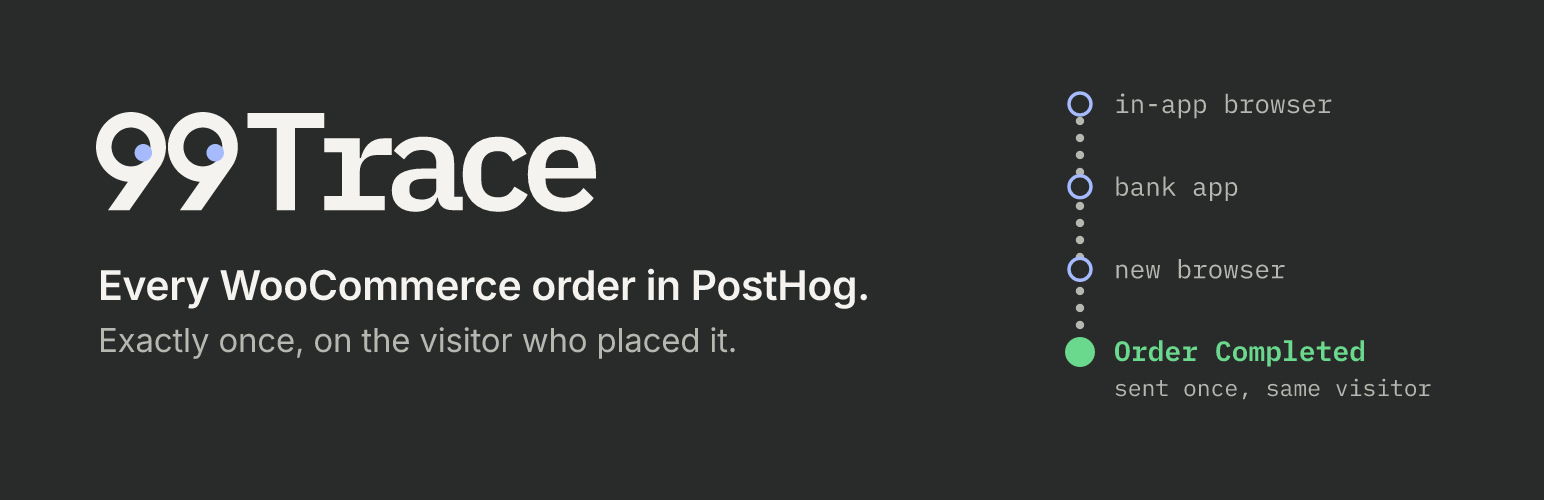
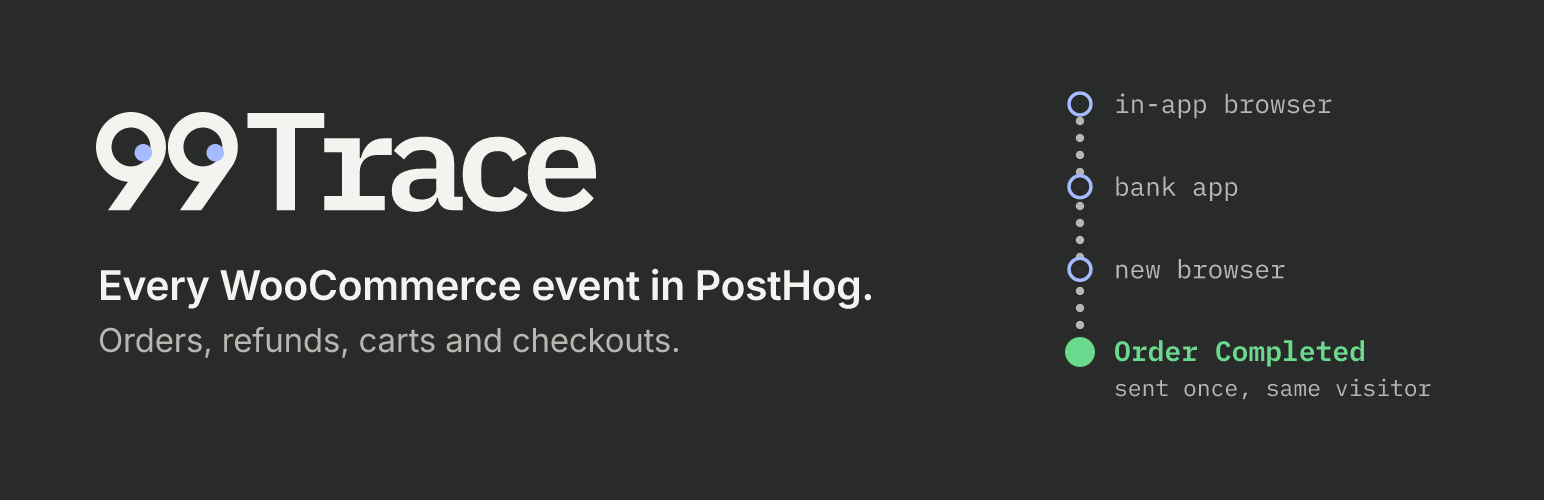
Brand images and README: every WooCommerce event in PostHog

Changed region(s): [[0.0622, 0.66, 0.4663, 0.72], [0.342, 0.54, 0.5596, 0.63]]

diff --git a/brand/build/compose.py b/brand/build/compose.py
@@ -95,8 +95,8 @@ def banner(w=1544, h=500):
             '{mark}{t1}{t2}{j}</svg>\n').format(
         w=w, h=h, bg=GRAPHITE,
         mark=mark(96 * s, 112 * s, 500 * s),
-        t1=text(98 * s, 300 * s, 41 * s, WARM, 'Every WooCommerce order in PostHog.', weight=600, spacing=-0.4 * s),
-        t2=text(98 * s, 352 * s, 33 * s, MUTED_D, 'Exactly once, on the visitor who placed it.', weight=400, spacing=-0.2 * s),
+        t1=text(98 * s, 300 * s, 41 * s, WARM, 'Every WooCommerce event in PostHog.', weight=600, spacing=-0.4 * s),
+        t2=text(98 * s, 352 * s, 33 * s, MUTED_D, 'Orders, refunds, carts and checkouts.', weight=400, spacing=-0.2 * s),
         j=journey_vertical(1080 * s, 104 * s, 352 * s, scale=s))
 
 
@@ -107,8 +107,8 @@ def social(w=1280, h=640):
             '{mark}{t1}{t2}{j}{foot}</svg>\n').format(
         w=w, h=h, bg=GRAPHITE,
         mark=mark(96 * s, 104 * s, 560 * s),
-        t1=text(98 * s, 300 * s, 46 * s, WARM, 'Every WooCommerce order in PostHog.', weight=600, spacing=-0.5 * s),
-        t2=text(98 * s, 356 * s, 34 * s, MUTED_D, 'Exactly once, on the visitor who placed it.', weight=400, spacing=-0.2 * s),
+        t1=text(98 * s, 300 * s, 46 * s, WARM, 'Every WooCommerce event in PostHog.', weight=600, spacing=-0.5 * s),
+        t2=text(98 * s, 356 * s, 34 * s, MUTED_D, 'Orders, refunds, carts and checkouts.', weight=400, spacing=-0.2 * s),
         j=journey(196 * s, 466 * s, 1166 * s, scale=s, label_size=23, end_size=25, sub_size=21),
         foot=text(98 * s, 604 * s, 20 * s, '#8C908A', 'Open source  ·  GPL-2.0-or-later  ·  by 99Ways', family='IBM Plex Mono', weight=400))
 

diff --git a/README.md b/README.md
@@ -5,7 +5,7 @@
   </picture>
 </p>
 
-<p align="center"><strong>Every WooCommerce order in PostHog, exactly once, on the visitor who placed it.</strong></p>
+<p align="center"><strong>Every WooCommerce event in PostHog.</strong><br>Orders, refunds, carts and checkouts, sent from your shop's server on the visitor who made them.</p>
 
 <p align="center">
   <a href="https://github.com/99ways-io/99trace-woocommerce-posthog/actions/workflows/ci.yml"><img alt="CI" src="https://github.com/99ways-io/99trace-woocommerce-posthog/actions/workflows/ci.yml/badge.svg"></a>
